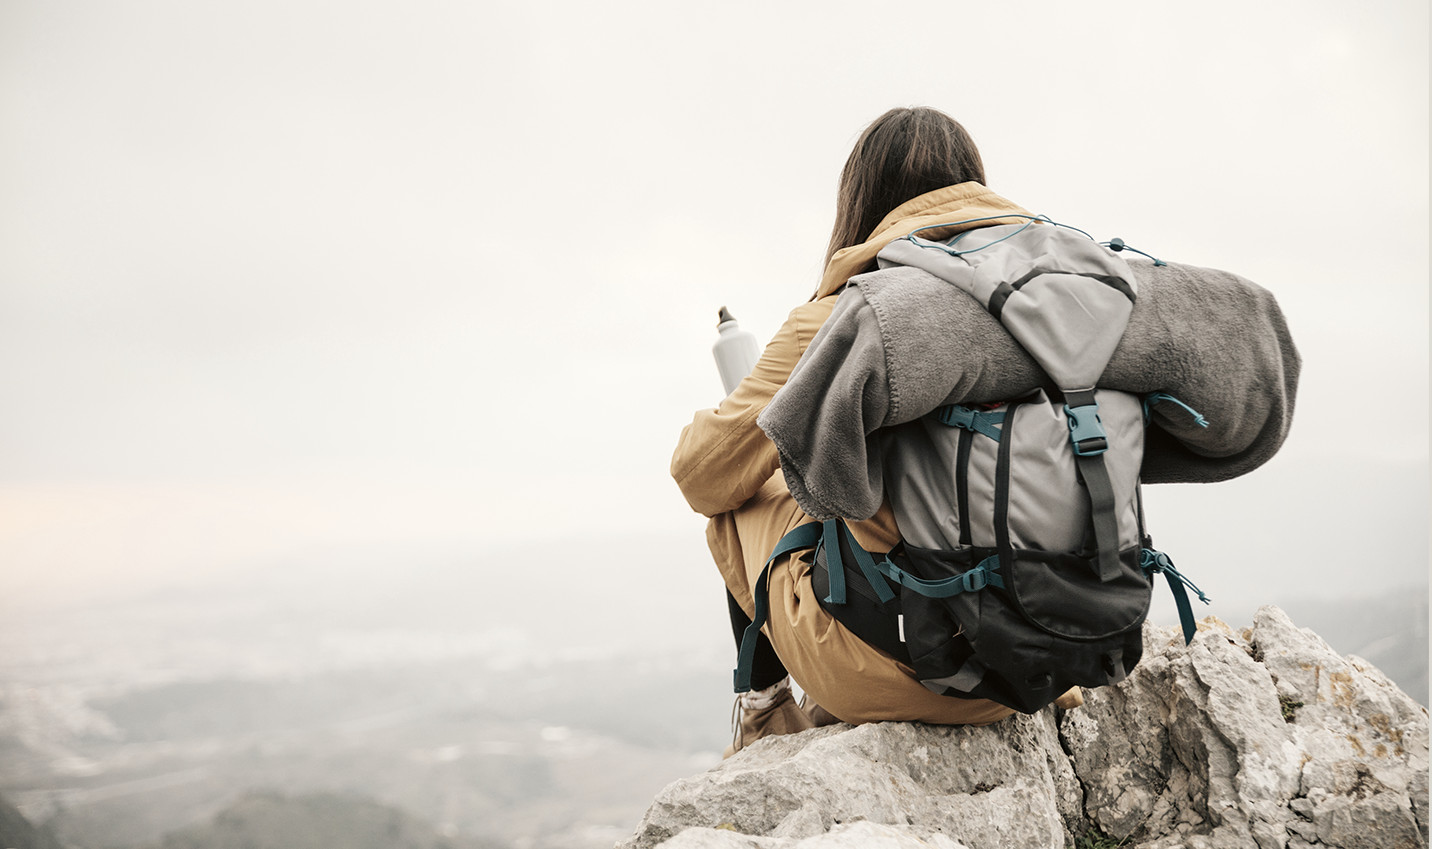
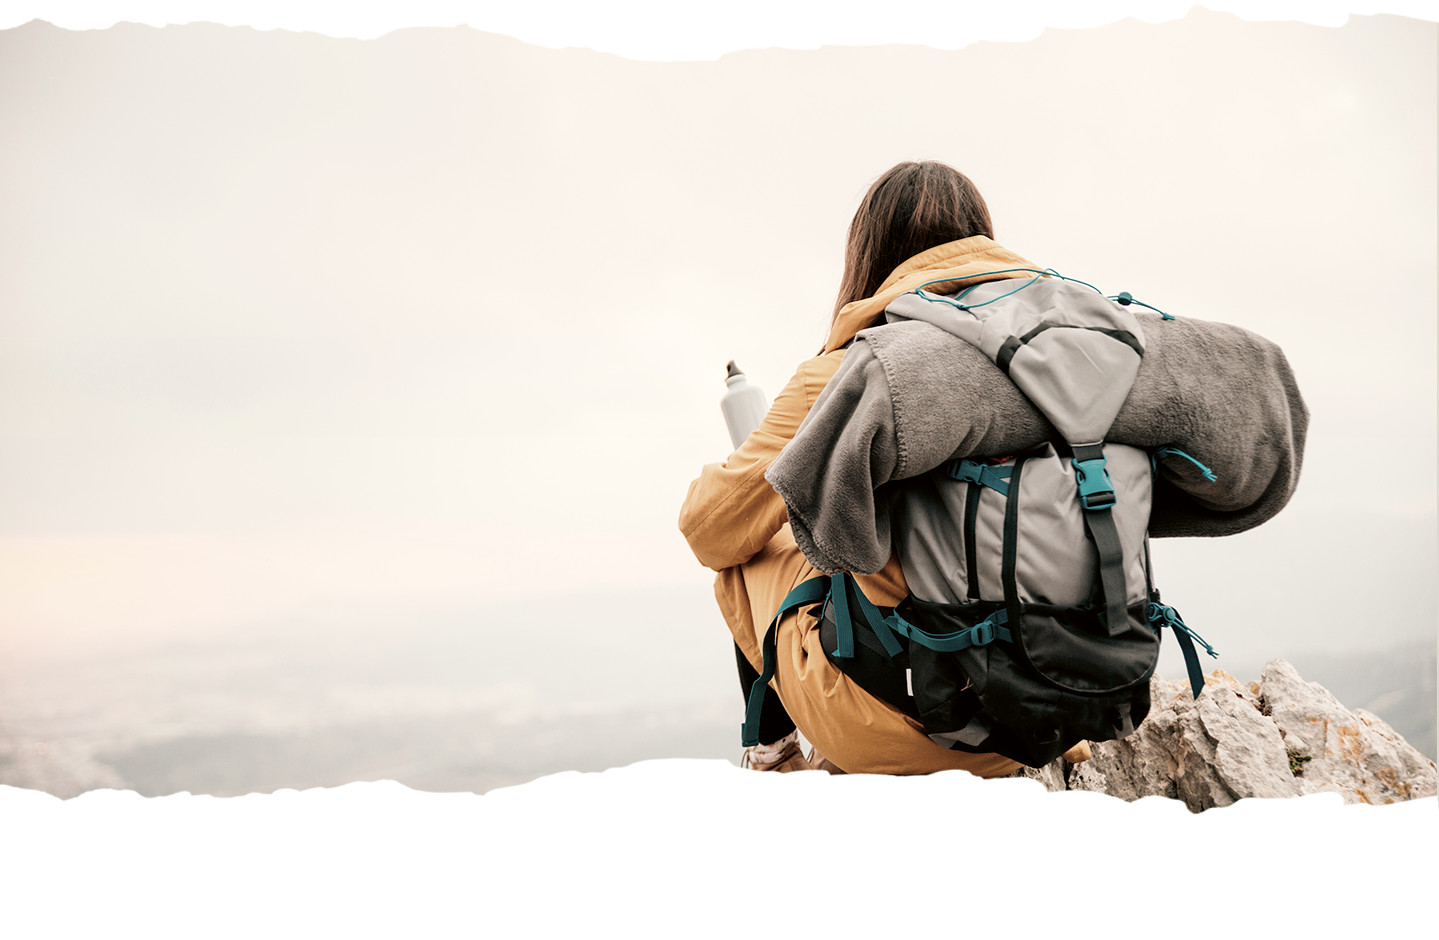
added images

diff --git a/src/index.css b/src/index.css
@@ -1,5 +1,26 @@
 @import url('https://fonts.googleapis.com/css2?family=Roboto:ital,wght@0,300;0,400;0,500;0,700;0,900;1,300;1,400;1,500;1,700;1,900&display=swap');
 
+/* #root {
+  max-width: 1280px;
+  margin: 0 auto;
+  padding: 2rem;
+  text-align: center;
+} */
+
+
+:root {
+  --nav-dark:#e5e1da;
+  --bg-light:#dad6cf;
+  --bg-darker:#807970;
+  --bg-dark:#4a4a49;
+  --accent:#edb47c;
+  --hover:#c7ae93;
+  --font1:#7c6c64;
+  --font2:#54514e;
+  --font3:#54504d;
+  --fe:#fefefd;
+}
+
 *{
   margin: 0;
   padding: 0;
@@ -19,28 +40,10 @@ body {
   font-family: Roboto, sans-serif;
 }
 
-h1 {
-  
-}
 
-button {
-  border-radius: 8px;
-  border: none;
-  border-radius: 1rem;
-  padding: 0.3rem 1rem;
-  font-size: 1rem;
-  font-weight: 500;
-  font-family: inherit;
-  text-transform: uppercase;
-  background-color: var(--accent);
-  color: var(--fe);
-  cursor: pointer;
-  transition: border-color 0.25s;
-}
-button:focus,
-button:hover {
-  border-color: var(--hover);
-}
+
+
+  
 
 
 

diff --git a/src/components/Hero.jsx b/src/components/Hero.jsx
@@ -1,11 +1,25 @@
-import React from 'react';
+import React from 'react'
+import styles from './Hero.module.css'
+import Button from '../UI/Button'
 
 const Hero = () => {
-    return (
-        <div>
-            Hero
-        </div>
-    );
+	return (
+		<div className={styles.hero}>
+            <div className={styles.content}>
+
+			<h1 className={styles.h1}>
+				It's time <br />
+				for hiking
+			</h1>
+			<h3 className={styles.h3}>Loremipusum dolor</h3>
+			<Button className={styles.lightBtn}> Read more </Button>
+			<p className={styles.italic}>
+				Lorem ipsum dolor sit amet consectetur adipisicing elit,
+				accusantium laborum velit, tempora fugit et dolore magna.
+                </p>
+            </div>
+		</div>
+	)
 }
 
-export default Hero;
+export default Hero

diff --git a/src/components/Hero.module.css b/src/components/Hero.module.css
@@ -1,0 +1,45 @@
+.hero {
+	width: 100vw;
+	height: 100vh;
+	display: flex;
+	justify-content: flex-start;
+	align-items: center;
+	background: url('/hero.jpg');
+	background-size: cover;
+	/*  padding-left: 3rem; */
+}
+.content {
+	width: 35%;
+	margin-left: 4rem;
+	display: flex;
+	flex-direction: column;
+	justify-content: center;
+	align-items: flex-start;
+	gap: 2rem;
+    
+}
+
+.h1 {
+	color: var(--accent);
+	font-size: 5rem;
+	font-weight: 600;
+}
+
+.h3 {
+    text-transform: uppercase;
+    font-size: 1.5rem;
+    font-style: italic;
+    color: var(--font3);
+    font-weight: 500;
+}
+
+.light-btn {
+	background-color: #fffefd;
+	color: #836c64;
+}
+
+.italic {
+    font-style: italic;
+    color: var(--font3);
+    font-size: 1.2rem;
+}

diff --git a/src/Layout.jsx b/src/Layout.jsx
@@ -1,20 +1,20 @@
-import React from 'react';
-import {Outlet} from 'react-router-dom'
-import Navbar from './components/Navbar';
-import Footer from './components/Footer';
+import React from 'react'
+import { Outlet } from 'react-router-dom'
+import Navbar from './components/Navbar'
+import Footer from './components/Footer'
+
 
 const Layout = () => {
-    return (
-        <>
-        <Navbar/>
-        <button>Test More</button>
-        <main className='main-container'>
-            <Outlet/>
-        </main>
-        <Footer/>
-            
-        </>
-    );
+	return (
+		<>
+			<Navbar />
+	
+			<main className='main-container'>
+				<Outlet />
+			</main>
+			<Footer />
+		</>
+	)
 }
 
-export default Layout;
+export default Layout

diff --git a/src/UI/Button.module.css b/src/UI/Button.module.css
@@ -1,0 +1,18 @@
+.btn {
+    border-radius: 0.5rem;
+  border: none;
+  border-radius: 1rem;
+  padding: 0.5rem 1.2rem;
+  font-size: 1.2rem;
+  font-weight: 600;
+  font-family: inherit;
+  text-transform: uppercase;
+  background-color: var(--accent);
+  color: var(--fe);
+  cursor: pointer;
+}
+.btn:focus,
+.btn:hover {
+  background-color: var(--hover);
+}
+

diff --git a/src/UI/Button.jsx b/src/UI/Button.jsx
@@ -1,0 +1,12 @@
+import React from 'react';
+import styles from './Button.module.css'
+
+const Button = ({children, ...props}) => {
+    return (
+        <button {...{props}} className={styles.btn}>
+            {children}
+        </button>
+    );
+}
+
+export default Button;

diff --git a/src/components/Navbar.jsx b/src/components/Navbar.jsx
@@ -1,5 +1,6 @@
 import React from 'react';
 
+
 const Navbar = () => {
     return (
         <div>
